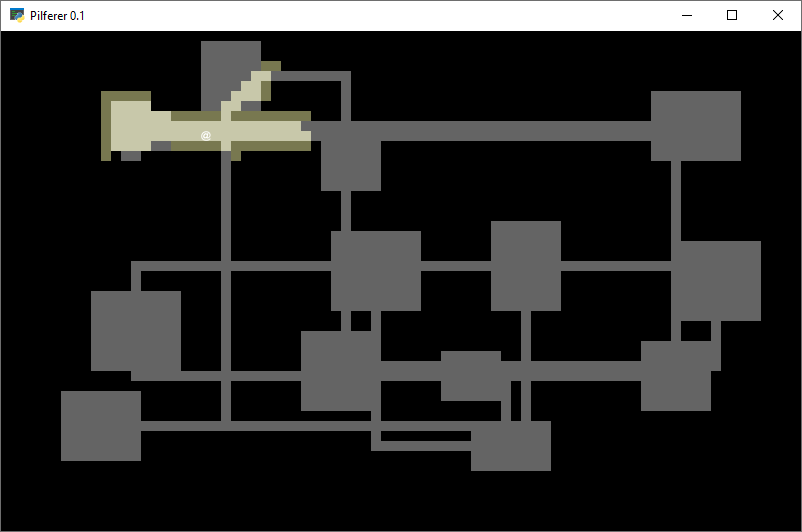
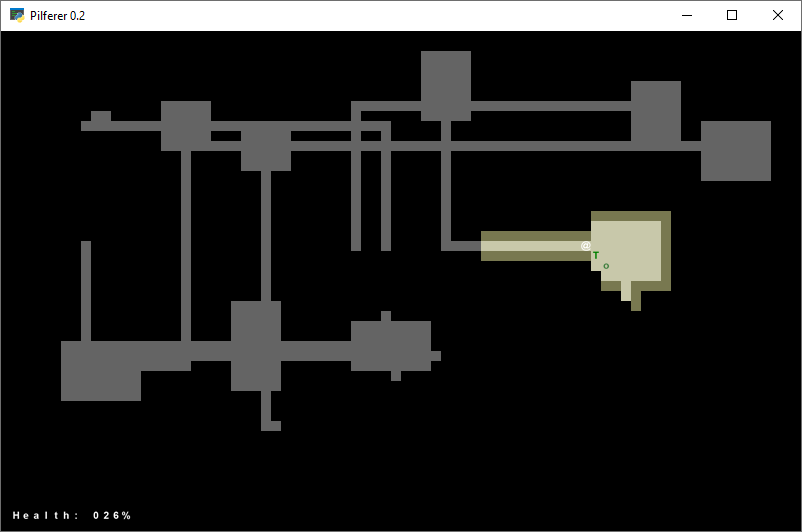
add combat

Changed region(s): [[0.0623, 0.0602, 0.9663, 0.9023], [0.0, 0.9624, 0.1559, 0.9925]]

diff --git a/pilferer/engine.py b/pilferer/engine.py
@@ -11,7 +11,7 @@ from entity import Entity, get_blocking_entity_at_location
 from components.fighter import Fighter
 from death_functions import kill_monster, kill_player
 
-VERSION = "0.1"
+VERSION = "0.2"
 FONT = 'assets/arial10x10.png'
 screen_width = 80
 screen_height = 50
